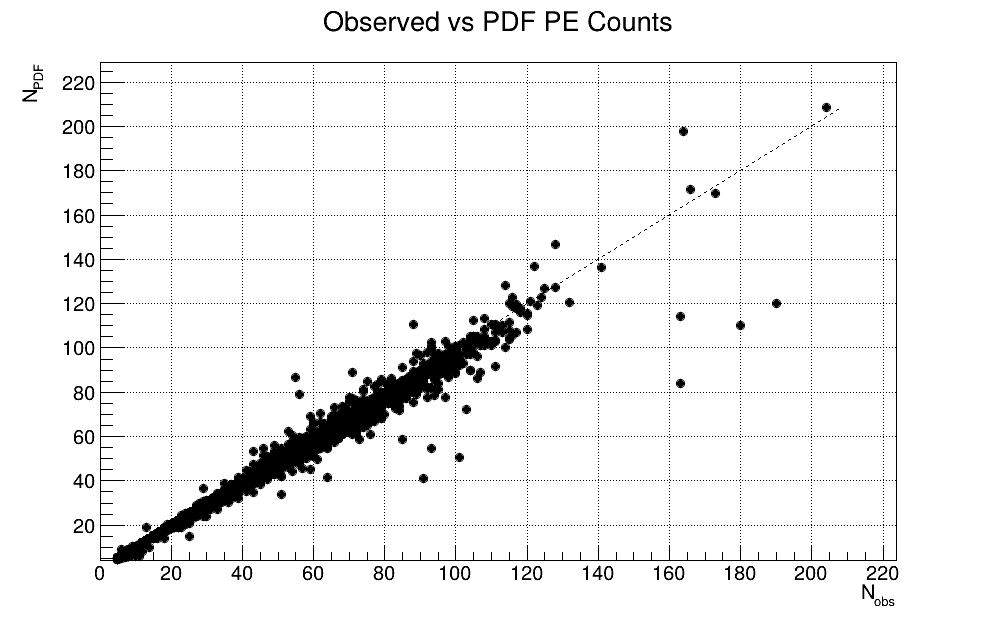
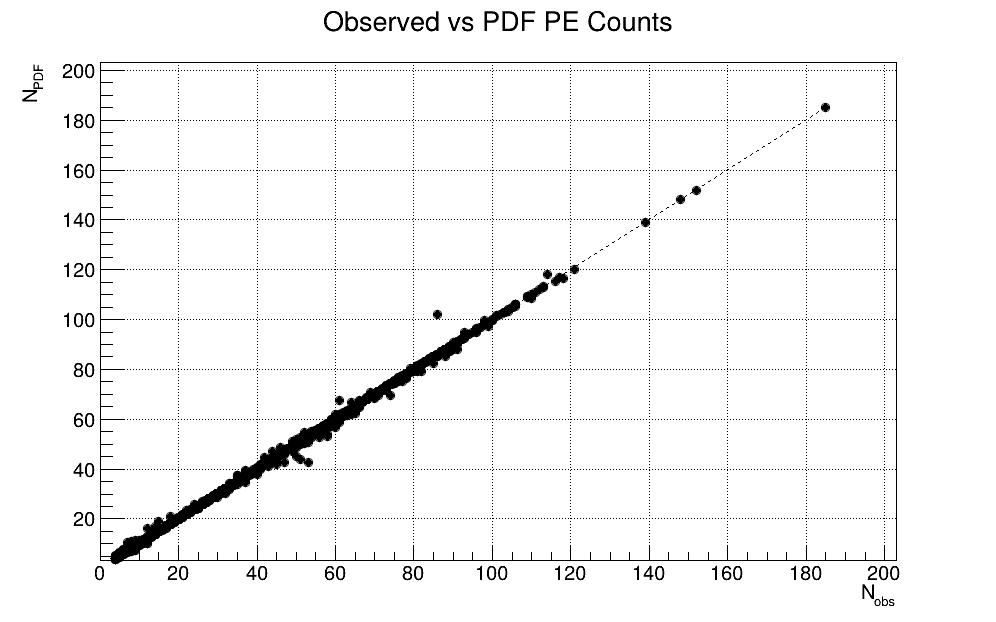
coinc implemented

diff --git a/src/Pulse_Fitting.cpp b/src/Pulse_Fitting.cpp
@@ -18,7 +18,7 @@ static inline int round_to_index(double x, int max_index_inclusive) {
     return static_cast<int>(idx);
 }
 
-Pulse_Fitting::Pulse_Fitting(const EventList& events) {extractTimes(events);} // copy event.realtime to peTimes_ (us)
+Pulse_Fitting::Pulse_Fitting(const EventList& events) : events_(events) { extractTimes(events); } // copy event.realtime to peTimes_ (us)
 
 void Pulse_Fitting::setWindow(double start_us, double stop_us) {
     // set signal window in absolute microseconds
@@ -119,11 +119,40 @@ vector<double> Pulse_Fitting::applyTimeWindow(const vector<double>& times, doubl
 tuple<double, int, double, double> Pulse_Fitting::movingWindow(const vector<double>& times, int startIdx) {
     // grow a window starting at 'startIdx' until an inter-hit gap > minGap_
     int N = static_cast<int>(times.size());
+    if (startIdx >= N - 1) {
+        return {0.0, startIdx + 1, 0.0, 0.0};
+    }
+
     double start = times[startIdx];
     int j = startIdx + 1;
 
-    while (j < N && (times[j] - times[j - 1]) <= minGap_) {
-        ++j;
+    if (use_coinc_) {
+        bool armed = false;
+        while (j < N) {
+            double dt_seed = times[j] - times[startIdx];
+            if (dt_seed > coinc_win_) break;
+            if (events_[j].channel != events_[startIdx].channel) {
+                armed = true;
+                ++j;
+                break;
+            }
+            ++j;
+        }
+        if (!armed) {
+            const double t = times[startIdx];
+            return {0.0, startIdx + 1, t, t};
+        }
+        int last = j -  1;
+        while (j < N) {
+            double dt_step = times[j] - times[last];
+            if (dt_step >= minGap_) break;
+            last = j;
+            ++j;
+        }
+    } else {
+        while (j < N && (times[j] - times[j - 1]) <= minGap_) {
+            ++j;
+        }
     }
 
     // previously: double end = times[j - 1]; // August 6th 2025

diff --git a/include/Pulse_Fitting.h b/include/Pulse_Fitting.h
@@ -40,6 +40,8 @@ class Pulse_Fitting {
             capturePlots_ = c.plot_fits;
             preBins_ = (int)std::llround(shiftUs_ / std::max(1e-12, binWidth_));
             finePreBins_ = (int)std::llround(shiftUs_ / std::max(1e-12, fineBinWidth_));
+            use_coinc_ = c.use_coinc;
+            coinc_win_ = c.coinc_win;
         }
 
         double shift_us() const { return shiftUs_; }
@@ -70,6 +72,8 @@ class Pulse_Fitting {
         const std::vector<WindowStat>& getWindowStats() const { return windowStats_; }
 
     private:
+        const EventList events_;
+
         double binWidth_ = 1.0; // primary histogram bin (us)
         double fineBinWidth_ = 0.25; // fallback giner bining (us)
 
@@ -119,6 +123,9 @@ class Pulse_Fitting {
         std::vector<int> pile_hist_;
         std::vector<double> pile_x_, pile_total_;
         std::vector<std::vector<double>> pile_components_;
+
+        bool use_coinc_;
+        double coinc_win_;
 
         // === HELPER METHODS === //
 

diff --git a/include/File_Loader.h b/include/File_Loader.h
@@ -1,7 +1,7 @@
 #ifndef FILE_LOADER_H
 #define FILE_LOADER_H
 
-#include <list>
+#include <vector>
 #include <string>
 #include <set>
 #include <json.hpp>
@@ -45,9 +45,12 @@ typedef struct
     double seed_pe_default; // default 20.0 (default PE for the first pulse in each valid window)
     double gradient_threshold; // default 2.0 (findGradientPeaks threshold factor)
     int guard_bin; // default 1 (exclude extra peaks near the first pulse)
+
+    bool use_coinc;
+    double coinc_win;
 } Config;
 
-using EventList = std::list<event>;
+using EventList = std::vector<event>;
 
 std::string ensureTrailingSlash(const std::string& folder);
 

diff --git a/src/File_Loader.cpp b/src/File_Loader.cpp
@@ -213,6 +213,9 @@ Config load_config(int argc, char** argv, const std::string& default_cfg) {
 	c.seed_pe_default = cfg.value("seed_pe_default", 20.0);
 	c.gradient_threshold = cfg.value("gradient_threshold", 2.0);
 	c.guard_bin = cfg.value("guard_bin", 1);
+	
+	c.use_coinc = cfg.value("use_coinc", false);
+	c.coinc_win = cfg.value("coinc_win", 100e-9);
 
 	// load runinfo JSON
     {

diff --git a/src/Pulse_Analysis.cpp b/src/Pulse_Analysis.cpp
@@ -37,6 +37,9 @@ std::ostream& operator<<(std::ostream& os, const Config& c) {
     os << "plot_fits          = " << c.plot_fits << "\n";
     os << "pileup_min_pulses  = " << c.pileup_min_pulses << "\n";
 
+	os << "use_coinc          = " << c.use_coinc << "\n";
+	os << "coinc_win          = " << c.coinc_win << "\n";
+
     return os;
 }
 
